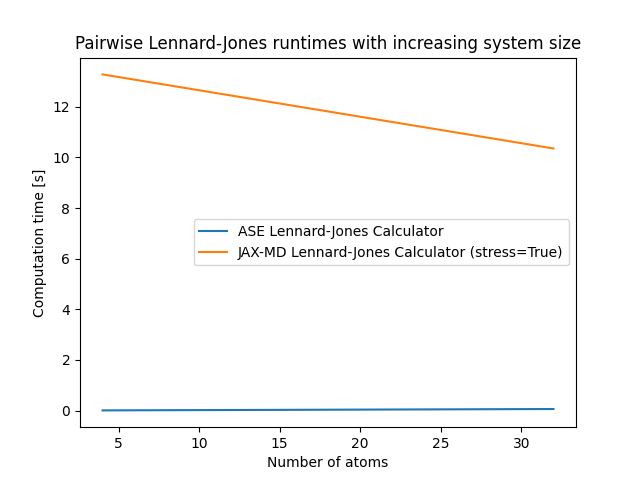
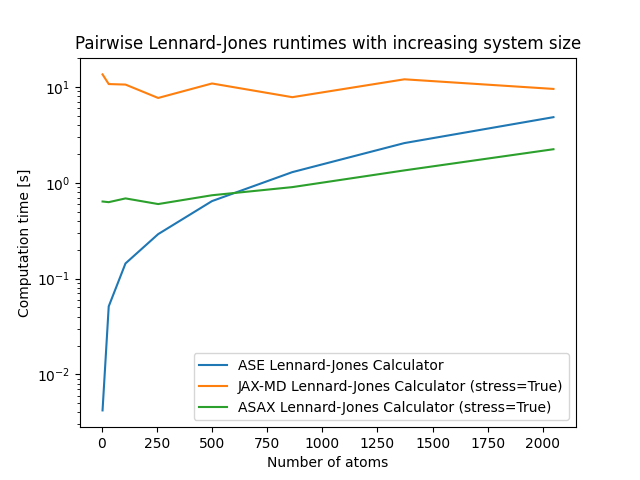
asax added to pairwise LJ benchmarks

diff --git a/calculators/lennard_jones/pair/asax_lennard_jones_pair.py b/calculators/lennard_jones/pair/asax_lennard_jones_pair.py
@@ -26,11 +26,15 @@ class AsaxLennardJonesPair(Calculator):
 
     @property
     def description(self) -> str:
-        return "ASAX Lennard-Jones Calculator"
+        return "ASAX Lennard-Jones Calculator (stress={})".format(str(self._stress))
+
+    @property
+    def pairwise_distances(self):
+        return self._atoms.get_all_distances(mic=True) 
 
     @classmethod
     def from_ase_atoms(cls, atoms: Atoms, sigma: float, epsilon: float, r_cutoff: float, r_onset: float, stress: bool) -> AsaxLennardJonesPair:
-        obj: AsaxLennardJonesPair = super().from_ase_atoms(atoms, sigma, float, epsilon, r_cutoff, r_onset, stress)
+        obj: AsaxLennardJonesPair = super().from_ase_atoms(atoms, sigma, epsilon, r_cutoff, r_onset, stress)
         obj._atoms = atoms
         obj._atoms.calc = LennardJones(obj._epsilon, obj._sigma, obj._r_cutoff, obj._r_onset, x64=True, stress=stress)
         return obj
@@ -65,11 +69,10 @@ class AsaxLennardJonesPair(Calculator):
         # TODO: Add atom-wise stresses to ASAX once implemented for JAX-MD
 
         energy = self._atoms.get_potential_energy()
-        # energies = self._atoms.get_potential_energies()
         energies = None
         forces = self._atoms.get_forces()
         force = np.sum(forces)
         stress = self._atoms.get_stress()
-        # stresses = self._atoms.get_stresses()
         stresses = None
-        return Result(self, energy, energies, force, forces, stress, stresses)
+
+        return Result(self, energy, energies, forces, stress, stresses, None)

diff --git a/benchmark.py b/benchmark.py
@@ -3,6 +3,7 @@
 # del sys.path[0]
 # sys.path.insert(0, '/home/pop518504/git/gknet-benchmarks')
 
+from calculators.lennard_jones.pair.asax_lennard_jones_pair import AsaxLennardJonesPair
 from typing import List
 from utils import plot_runtimes
 from calculators.calculator import Result
@@ -19,12 +20,10 @@ def generate_system_sizes(z_max: int, unit_cell_size):
     return ns
 
 
-# n = 500
-box_size = 100
 sigma = 2.0
 epsilon = 1.5
 
-system_sizes = generate_system_sizes(z_max=2, unit_cell_size=4)
+system_sizes = generate_system_sizes(z_max=8, unit_cell_size=4)
 results: List[Result] = []
 
 for n in system_sizes:
@@ -39,6 +38,10 @@ for n in system_sizes:
     # setup JAX-MD
     jmd = JmdLennardJonesPair.from_ase_atoms(ase._atoms, sigma, epsilon, r_cutoff, r_onset, stress=True, adjust_radii=True)    
     results.append(jmd.calculate())
+
+    # setup asax
+    asax = AsaxLennardJonesPair.from_ase_atoms(ase._atoms, sigma, epsilon, r_cutoff, r_onset, stress=True)
+    results.append(asax.calculate())
 
 
 

diff --git a/utils.py b/utils.py
@@ -46,12 +46,10 @@ def plot_runtimes(title: str, system_sizes: List[int], results: List[Result], fi
         calculator_description = result_group[0].calculator.description
         computation_times = [r.computation_time for r in result_group]
         plt.plot(system_sizes, computation_times, label=calculator_description)
-        # print(calculator_description)
-        # print([r.computation_time for r in result_group])
-        # print()
     
     plt.title(title)
     plt.xlabel("Number of atoms")
     plt.ylabel("Computation time [s]")
+    plt.yscale("log")
     plt.legend()
     plt.savefig(file_name)
